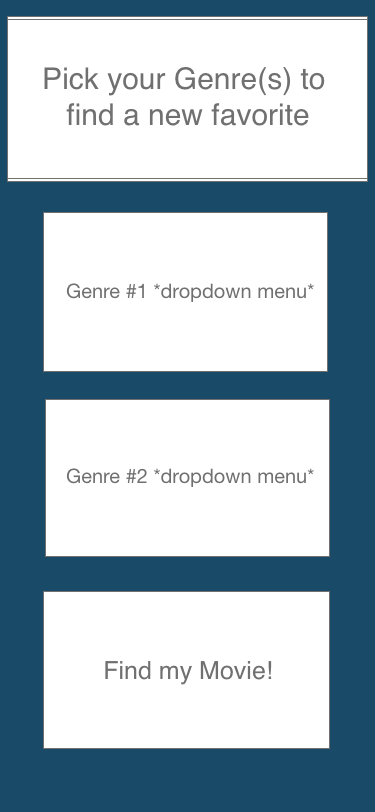
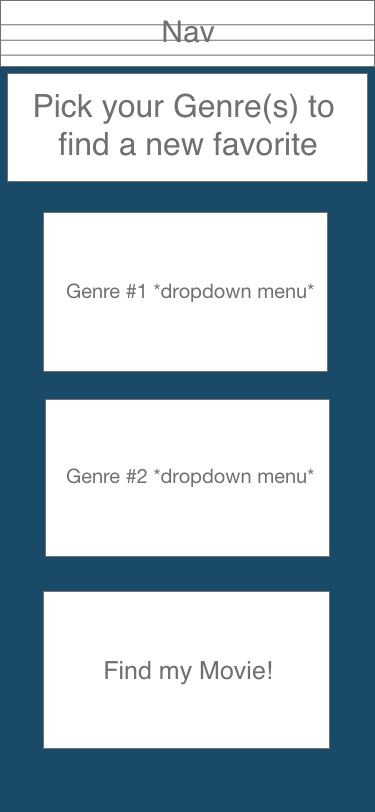
More specific and realistic time-frames in the README.md

Changed region(s): [[0.0, 0.0, 1.0, 0.2155]]

diff --git a/README.md b/README.md
@@ -15,14 +15,17 @@ Enter: Movie Quest! It is a web application that allows users to see what movies
 
 ## Wireframes
 Desktop/Tablet Wireframes:
-![Imgur](https://i.imgur.com/PAmvMgT.png)
-![Imgur](https://i.imgur.com/hSAyMXR.png)
-![Imgur](https://i.imgur.com/JHWz7ua.png)
-![Imgur](https://i.imgur.com/JHWz7ua.png)
-![Imgur](https://i.imgur.com/qKlNDrd.png)
+![Imgur](https://i.imgur.com/acWaJPB.png)
+![Imgur](https://i.imgur.com/HdXhOc4.png)
+![Imgur](https://i.imgur.com/9eTmTXX.png)
+![Imgur](https://i.imgur.com/25ZWhCT.png)
+![Imgur](https://i.imgur.com/ywgngCD.png)
 
 Mobile Wireframes:
 ![Click Here](Mobile-wireframes.md)
+
+### Post MVP
+![Imgur](https://i.imgur.com/7FqOh6l.png)
 
 
 ## API and Data Sample
@@ -51,22 +54,53 @@ A sample from the API: https://api.themoviedb.org/3/movie/550?{API_KEY_HERE}
         ....etc.....}
 ```
 
-This project will also use Airtable to store movies the user wants to save for later
+This project will also use Airtable to store movies the user wants to save for later. Here's a sample JSON response for the Airtable:
+
+```
+{
+    "records": [
+        {
+            "id": "recCjSMDPEqPygkeN",
+            "fields": {
+                "Title": "place-holder title",
+                "Poster": "URL for <img> path",
+                "Release Year": "20XX",
+                "Runtime": "525,600 min."
+            },
+            "createdTime": "2020-10-09T14:22:08.000Z"
+        },
+        {
+            "id": "recVPB3MDpkdLr1ep",
+            "fields": {},
+            "createdTime": "2020-10-09T14:22:08.000Z"
+        },
+        {
+            "id": "rec1o5jHfqaCFtO17",
+            "fields": {},
+            "createdTime": "2020-10-09T14:22:08.000Z"
+        }
+    ],
+    "offset": "rec1o5jHfqaCFtO17"
+}
+```
 
 ## Component Hierarchy
-![Imgur](https://i.imgur.com/hyLXEwT.png)
+![Imgur](https://i.imgur.com/52W3RBW.png)
 
 ## MVP/PostMVP
 
 #### MVP 
 
-- Leverage the TMDb API with Query Strings to add personalized results.
+- Leverage the TMDb API with Query Strings to return "Popular Movies"
+- Have a component that will direct you to "Results"
+- Allow the user to save the result (Title, Poster, Release Year, Runtime) to Airtable
 - Render appropriate movie information and images to the DOM
-- Allow users to add movies to a list that will be saved to Airtable; a second API
+- Make a second component that will allow for Query strings to return results that gives the "best of" & "genre"
 - Properly style the compenents in the app
 
 #### PostMVP  
 
+- Add a component that will allow users to search by up to 2 genres and return user to "Results"
 - Add a link to a google search with the movie title as an extension like a query string: (https://www.google.com/search?q={MOVIE_TITLE_PASSED_HERE})
 - Use local storage to save user's List
 
@@ -86,13 +120,22 @@ This project will also use Airtable to store movies the user wants to save for l
 
 | Component | Priority | Estimated Time | Time Invested | Actual Time |
 | --- | :---: |  :---: | :---: | :---: |
-| Initial Pseudocode & Component structure| H | 2hrs| hrs | hrs |
-| Initial React Application w/ components & TMDb API implemented| H | 12hrs| hrs | hrs |
-| Working with Airtable API | H | 3hrs| hrs | hrs |
-| Initial CSS for Mobile-First | H | 8hrs| hrs | hrs |
-| Initial CSS for Desktop/Tablet-Second | H | 5hrs| hrs | hrs |
-| Initial CSS for Mobile-First | H | 8hrs| hrs | hrs |
-| Total | H | 38hrs| hrs | 5hrs |
+| Initial Pseudocode/Planning & App component structure| H | 2hrs| hrs | hrs |
+| Add axios to return "Popular Movies" from TMDB API w/ Query strings| H | 2hrs| hrs | hrs |
+| Create React component */* for the Homepage with Button for "Show me what's popular" | H | 4hrs| hrs | hrs |
+| Have Button redirect user to */choice/:query* | H | 3hrs| hrs | hrs |
+| Add axios to */choice/:query* from Airtable and create "Add to My List" Button | H | 4hrs| hrs | hrs |
+| Have */choice/:query* return a list of results for "Popular Movies" | H | 4hrs| hrs | hrs |
+| Allow user to select a movie from */choice/:query* and add it to "My List" | H | 4hrs| hrs | hrs |
+| Create */pick/:menu* for the "Best of genre/year" with options for users to use dropdown selection for either genre or year  | H | 4hrs| hrs | hrs |
+| Have */choice/:query* return a list of results for "Best of genre/year" | H | 4hrs| hrs | hrs |
+| After MVP functionality is completed, begin initial CSS styling for "Homepage"| H | 3hrs| hrs | hrs |
+| CSS styling for "Popular Movies" | H | 3hrs| hrs | hrs |
+| CSS styling for "Results" | H | 3hrs| hrs | hrs |
+| CSS styling for "My List" | H | 3hrs| hrs | hrs |
+| CSS styling for "Best of genre/year" | H | 3hrs| hrs | hrs |
+| CSS styling for Mobile & Tablet | H | 3hrs| hrs | hrs |
+| Total | H | 49hrs| hrs | hrs |
 
 ## SWOT Analysis
 
@@ -101,9 +144,9 @@ This project will also use Airtable to store movies the user wants to save for l
 ### Weaknesses:
     Class components
 ### Opportunities:
-    Able to gain experience with React!
+    This will be an incredible way to reinforce React and hopefully learn a lot!
 ### Threats:
-    Making my deliverables without major setbacks with the API
+    Making my deliverables without major setbacks due to my inexperience with React or issues with the API
 
 ## Change Log:
 

diff --git a/Mobile-wireframes.md b/Mobile-wireframes.md
@@ -1,6 +1,7 @@
 Mobile-Wireframes<br/>
 
-![Imgur](https://i.imgur.com/PjynNL5.png)
-![Imgur](https://i.imgur.com/HU972q9.png)
-![Imgur](https://i.imgur.com/jPtN8Yf.png)
-![Imgur](https://i.imgur.com/Dg5ADYL.png)
+![Imgur](https://i.imgur.com/wy0T35c.png)
+![Imgur](https://i.imgur.com/t4ZhYgl.png)
+![Imgur](https://i.imgur.com/NY8fkd6.png)
+![Imgur](https://i.imgur.com/hYKbGmS.png)
+![Imgur](https://i.imgur.com/gByXGzD.png)
